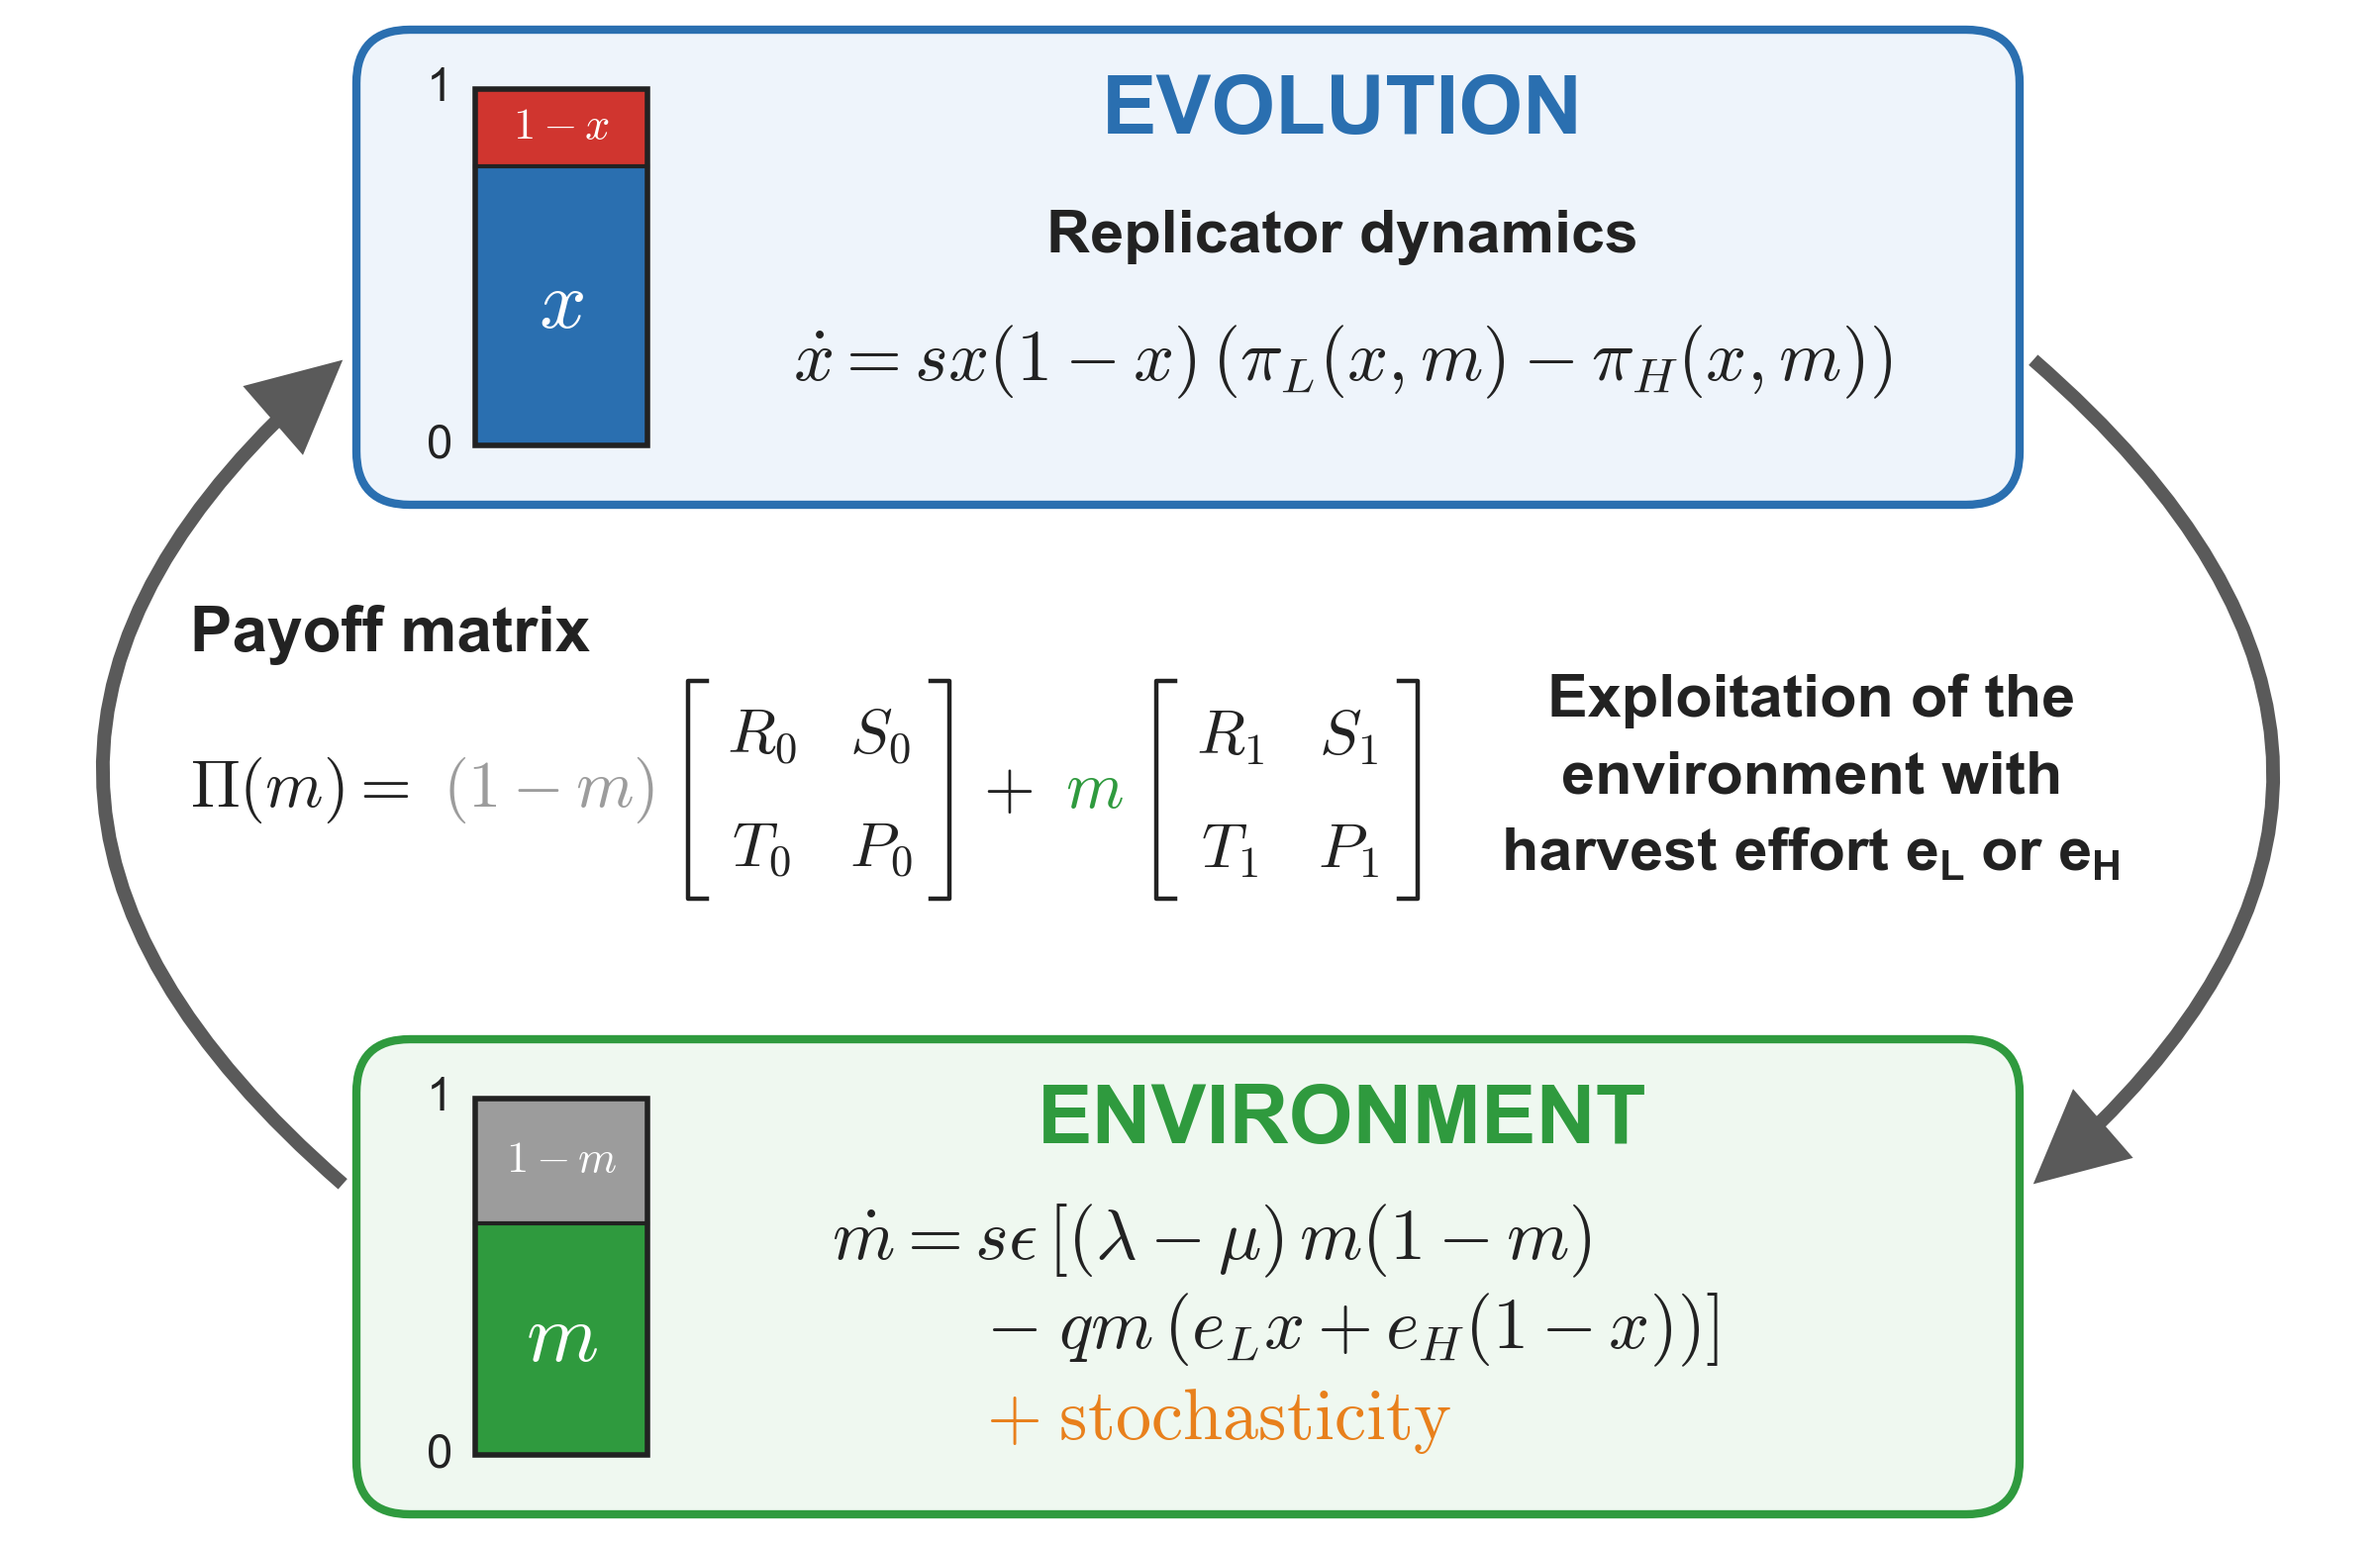
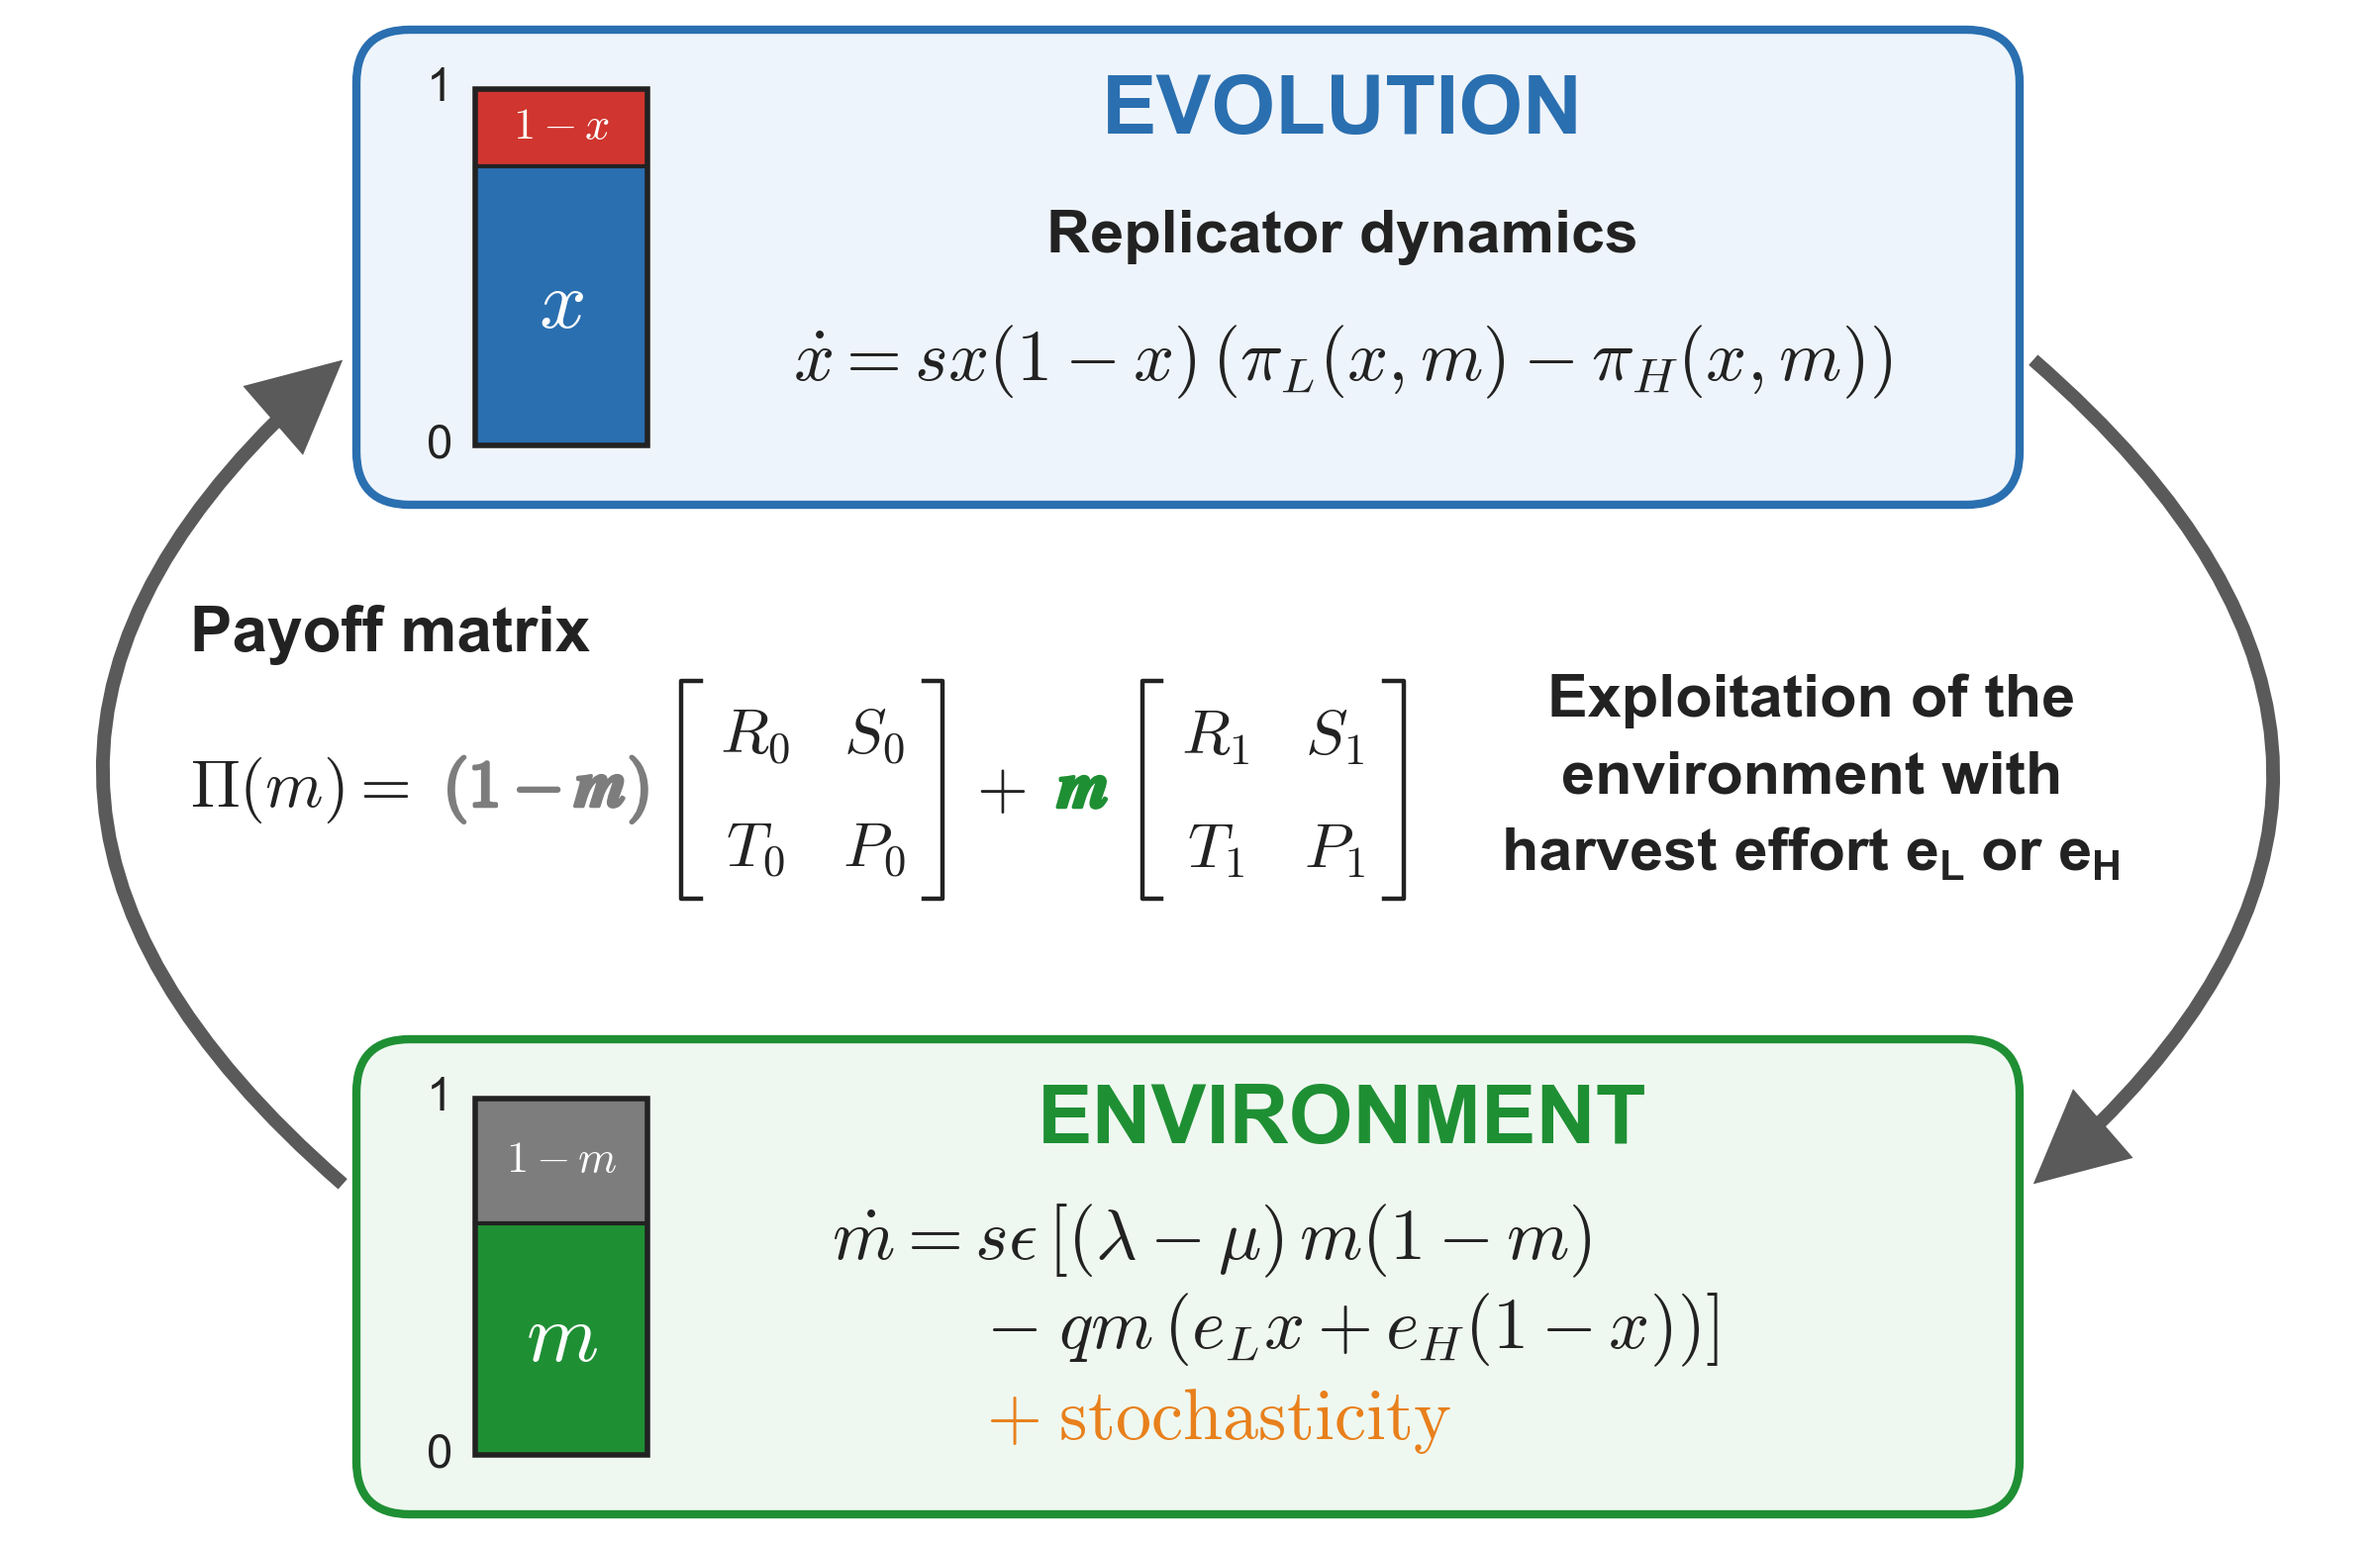
Fig. 1: bold weights in the payoff matrix, darker grey and green

Changed region(s): [[0.1875, 0.4308, 0.4062, 0.5846], [0.4375, 0.4308, 0.5938, 0.5846], [0.1875, 0.7077, 0.2812, 0.8]]

diff --git a/stochastic_resource/fig1_schematic.py b/stochastic_resource/fig1_schematic.py
@@ -5,9 +5,10 @@ import matplotlib
 matplotlib.use("Agg")
 import matplotlib.pyplot as plt
 from matplotlib.patches import FancyBboxPatch, Rectangle, FancyArrowPatch
+import matplotlib.patheffects as pe
 
 plt.rcParams.update({"mathtext.fontset": "cm", "font.family": "Arial"})
-BLUE, RED, GREEN, GREY, ORANGE = "#2a6fb0", "#d0352f", "#2f9a3e", "#9c9c9c", "#e8801c"
+BLUE, RED, GREEN, GREY, ORANGE = "#2a6fb0", "#d0352f", "#1f8f34", "#7d7d7d", "#e8801c"
 BLUE_BG, GREEN_BG, INK, ARROW = "#eef4fb", "#eff8f0", "#222222", "#5a5a5a"
 W, H = 2000, 1300
 
@@ -81,12 +82,14 @@ text(830, 1197, r"$+\;\mathrm{stochasticity}$", 26, color=ORANGE)
 # payoffs depend on the resource; weights coloured as the resource bar
 text(160, 535, "Payoff matrix", 23, fontweight="bold")
 x = 160
-for item, col in ((r"$\Pi(m)=$", INK), (r"$(1-m)$", GREY), (0, None), ("$+$", INK), ("$m$", GREEN), (1, None)):
+for item, col in ((r"$\Pi(m)=$", INK), (r"$(1-\boldsymbol{m})$", GREY), (0, None), ("$+$", INK),
+                  (r"$\boldsymbol{m}$", GREEN), (1, None)):
     if isinstance(item, int):
         matrix(x, 665, item, 23)
         x += 220 + 28
     else:
-        text(x, 665, item, 24, color=col)
+        bold = [pe.withStroke(linewidth=1.3, foreground=col)] if col != INK else None
+        text(x, 665, item, 24, color=col, path_effects=bold)
         x += width(item, 24) + 26
 print(f"payoff formula ends at x = {x:.0f}")
 
